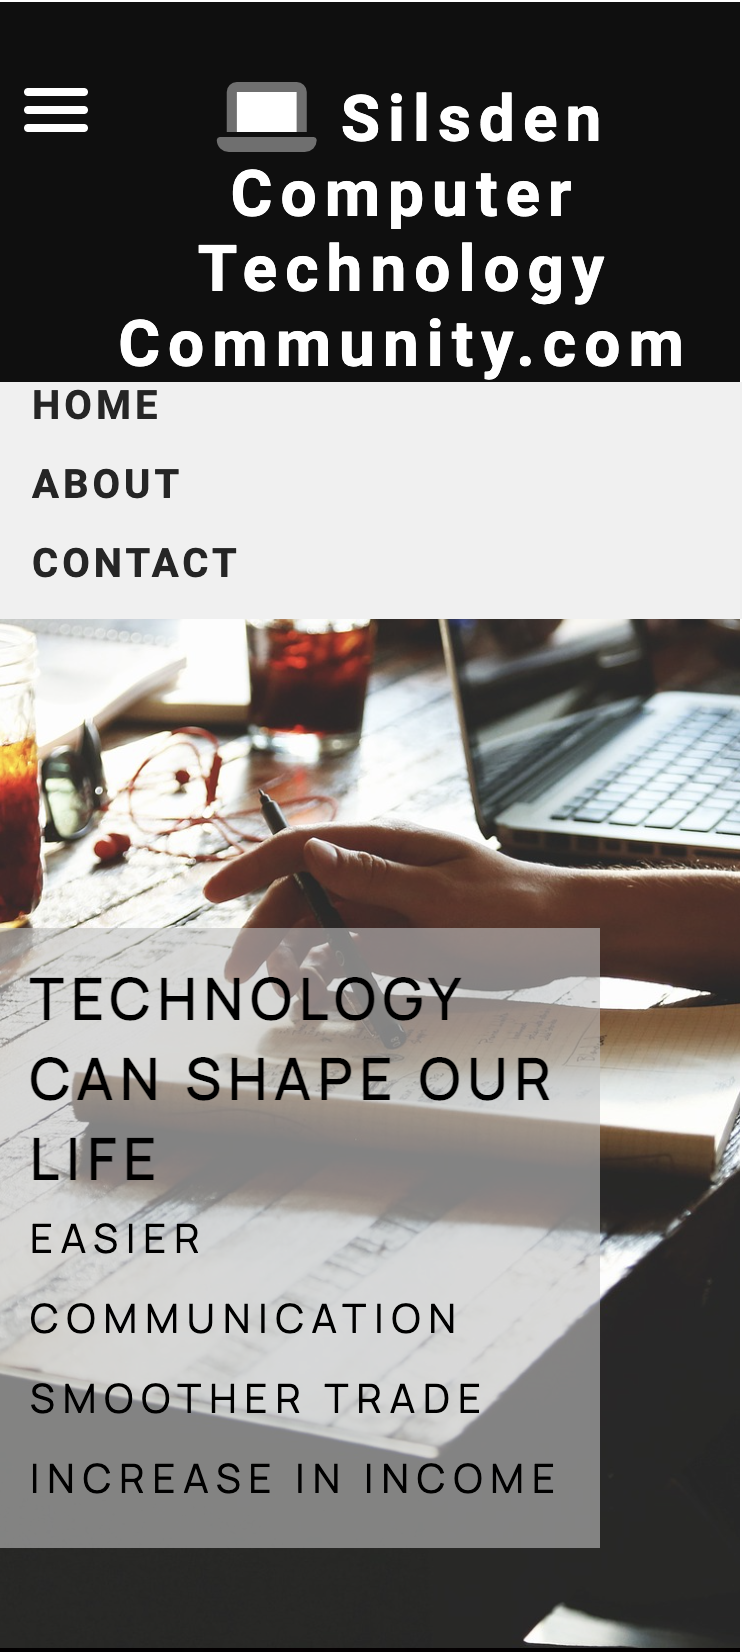
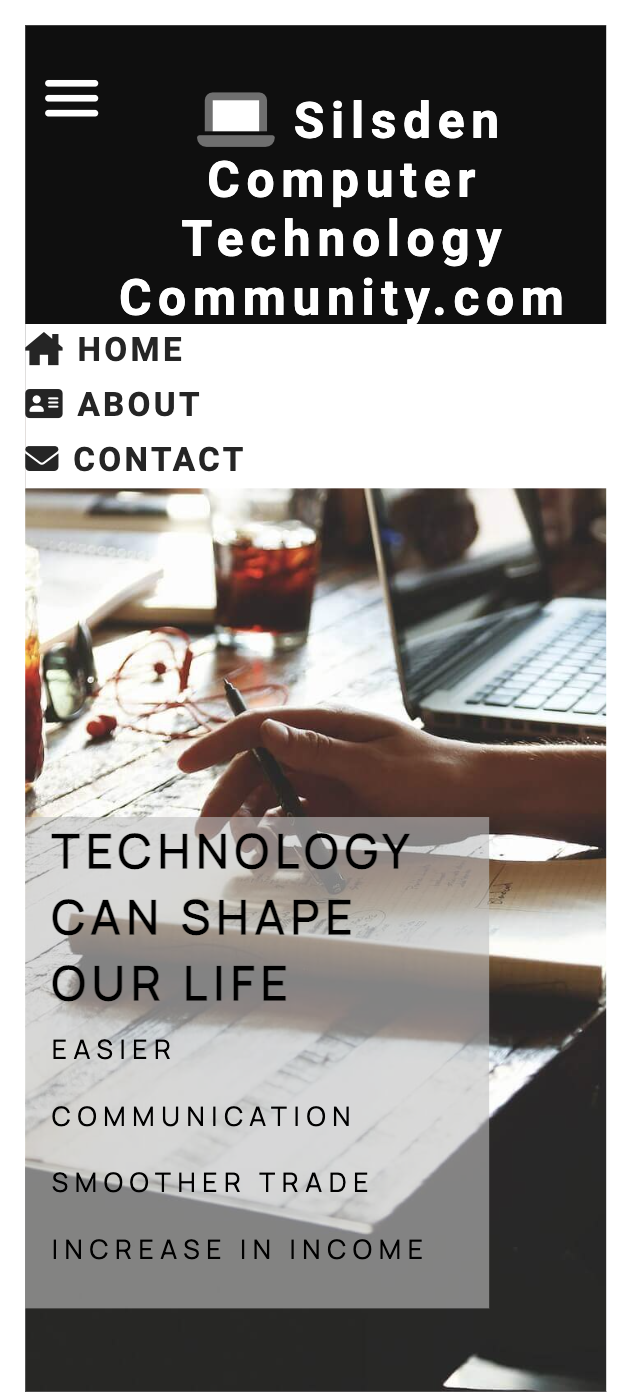
Add style

diff --git a/about.html b/about.html
@@ -16,7 +16,7 @@
     <title>Silsden Computer Technology Community.com About</title>
     <link rel="stylesheet" href="assets/css/style.css" />
   </head>
-  <body class="about-container-grid">
+  <body class="about-container-grid about-page-body">
     <header class="header-container">
       <div id="header" class="header">
         <a href="index.html" aria-label="Visit our website (open in a same tab)"
@@ -40,7 +40,7 @@
                 class="active"
                 aria-label="Visit our home page website (open in a same tab)"
               >
-              <i class="fa-sharp fa-solid fa-house-chimney"></i>
+                <i class="fa-sharp fa-solid fa-house-chimney"></i>
 
                 Home</a
               >
@@ -50,7 +50,7 @@
                 href="about.html"
                 class="active"
                 aria-label="Visit our about page website (open in a same tab)"
-                >
+              >
                 <i class="fa-solid fa-address-card"></i>
 
                 About</a
@@ -61,7 +61,7 @@
               <a
                 href="contact.html"
                 aria-label="Visit our sign-up page (open in a same tab)"
-                >
+              >
                 <i class="fa-solid fa-envelope"></i>
                 Contact</a
               >
@@ -95,67 +95,148 @@
         />
       </div>
 
-      <hr>
+      <hr />
 
       <div class="about-container-organizational-chart">
         <h3>ORGANIZATIONAL CHART</h3>
         <ul>
           <li class="about-container-organizational-chart-manager">
-            <img src="assets/images/Screenshot2023-05-07at13.09.11.png" alt="Haszan Dubani picture"/>
-            <p class="about-container-organizational-chart-manager-name">Haszan Dubani</p>
-            <p class="about-container-organizational-chart-manager-position">Manager</p>
+            <img
+              src="assets/images/Screenshot2023-05-07at13.09.11.png"
+              alt="Haszan Dubani picture"
+            />
+            <p class="about-container-organizational-chart-manager-name">
+              Haszan Dubani
+            </p>
+            <p class="about-container-organizational-chart-manager-position">
+              Manager
+            </p>
           </li>
         </ul>
 
         <ul class="about-container-organizational-chart-colleague">
           <li>
-            <img src="assets/images/Screenshot2023-05-07at13.09.46.png" alt="Sandra Brook picture"/>
-            <p class="about-container-organizational-chart-colleague-name">Sandra Brook</p>
-            <p class="about-container-organizational-chart-colleague-position">Senior Software Developer</p>
+            <img
+              src="assets/images/Screenshot2023-05-07at13.09.46.png"
+              alt="Sandra Brook picture"
+            />
+            <p class="about-container-organizational-chart-colleague-name">
+              Sandra Brook
+            </p>
+            <p class="about-container-organizational-chart-colleague-position">
+              Senior Software Developer
+            </p>
           </li>
           <li>
-            <img src="assets/images/Screenshot2023-05-07at13.10.58.png" alt="Marisa Holden picture"/>
-            <p class="about-container-organizational-chart-colleague-name">Marisa Holden</p>
-            <p class="about-container-organizational-chart-colleague-position">Senior Software Developer</p>
+            <img
+              src="assets/images/Screenshot2023-05-07at13.10.58.png"
+              alt="Marisa Holden picture"
+            />
+            <p class="about-container-organizational-chart-colleague-name">
+              Marisa Holden
+            </p>
+            <p class="about-container-organizational-chart-colleague-position">
+              Senior Software Developer
+            </p>
           </li>
           <li>
-            <img src="assets/images/Screenshot2023-05-07at13.11.50.png" alt="Peter Copp picture"/>
-            <p class="about-container-organizational-chart-colleague-name">Peter Copp</p>
-            <p class="about-container-organizational-chart-colleague-position">Senior Software Developer</p>
+            <img
+              src="assets/images/Screenshot2023-05-07at13.11.50.png"
+              alt="Peter Copp picture"
+            />
+            <p class="about-container-organizational-chart-colleague-name">
+              Peter Copp
+            </p>
+            <p class="about-container-organizational-chart-colleague-position">
+              Senior Software Developer
+            </p>
           </li>
           <li>
-            <img src="assets/images/Screenshot2023-05-07at13.08.51.png" alt="Amy Taylor picture"/>
-            <p class="about-container-organizational-chart-colleague-name">Amy Taylor</p>
-            <p class="about-container-organizational-chart-colleague-position">Junior Software Developer</p>
+            <img
+              src="assets/images/Screenshot2023-05-07at13.08.51.png"
+              alt="Amy Taylor picture"
+            />
+            <p class="about-container-organizational-chart-colleague-name">
+              Amy Taylor
+            </p>
+            <p class="about-container-organizational-chart-colleague-position">
+              Junior Software Developer
+            </p>
           </li>
         </ul>
       </div>
-      <hr>
+      <hr />
       <div class="about-activity-container">
-        <h4>OUR COMMUNITY, 2003 ACTIVITIES </h4>
+        <h4>OUR COMMUNITY, 2003 ACTIVITIES</h4>
         <div class="about-activity-container-image">
-            <img src="assets/images/workplace-4532322_1920.jpg" alt="i mac and ipad on the table"/>
-            <img src="assets/images/typing-2558213_1920.jpg" alt="A man using laptop"/>
-            <img src="assets/images/squash-793060_1920.jpg" alt="People hand using a laptop with squash"/>
-           <img src="assets/images/macbook-2617419_1920.jpg" alt="A man is reading a book with laptop turn off"/>
-          
-          <img src="assets/images/children-ga9a95ff29_1920.jpg" alt=" Two children with laptop"/>
-          <img src="assets/images/startup-gb355f2403_1920.jpg" alt="People meet around a table."/>
-          <img src="assets/images/adult-3086304_1920.jpg" alt="Man and lady using laptop"/>
-          <img src="assets/images/laptop-2591245_1920.jpg" alt="Lady using laptop in office"/>
-            
-          <img src="assets/images/laptop-3087585_1920.jpg" alt="Lady using laptop and biting pencil"/>
-            <img src="assets/images/laptops-593296_1920.jpg" alt="Three people using laptop on the table"/>
-            <img src="assets/images/people-2569523_1920.jpg" alt="Three people using laptop on the table"/>
-            <img src="assets/images/notebooks-569121_1920.jpg" alt="People using laptop with keyboard on the table"/>
-          
-            <img src="assets/images/people-2568603_1920.jpg" alt="Man and lady chatting and using laptop"/>
-          <img src="assets/images/dai-ke-GkraTrCYA_0-unsplash 2.jpg" alt="Lady using laptop and carry tea cup"/>
-          <img src="assets/images/students-1807505_1920.jpg" alt="Three student using laptop on green grass"/>
-          <img src="assets/images/training-3207841_1920.jpg" alt="Training online through laptop"/>
-          </div>
-          
-      
+          <img
+            src="assets/images/workplace-4532322_1920.jpg"
+            alt="i mac and ipad on the table"
+          />
+          <img
+            src="assets/images/typing-2558213_1920.jpg"
+            alt="A man using laptop"
+          />
+          <img
+            src="assets/images/squash-793060_1920.jpg"
+            alt="People hand using a laptop with squash"
+          />
+          <img
+            src="assets/images/macbook-2617419_1920.jpg"
+            alt="A man is reading a book with laptop turn off"
+          />
+
+          <img
+            src="assets/images/children-ga9a95ff29_1920.jpg"
+            alt=" Two children with laptop"
+          />
+          <img
+            src="assets/images/startup-gb355f2403_1920.jpg"
+            alt="People meet around a table."
+          />
+          <img
+            src="assets/images/adult-3086304_1920.jpg"
+            alt="Man and lady using laptop"
+          />
+          <img
+            src="assets/images/laptop-2591245_1920.jpg"
+            alt="Lady using laptop in office"
+          />
+
+          <img
+            src="assets/images/laptop-3087585_1920.jpg"
+            alt="Lady using laptop and biting pencil"
+          />
+          <img
+            src="assets/images/laptops-593296_1920.jpg"
+            alt="Three people using laptop on the table"
+          />
+          <img
+            src="assets/images/people-2569523_1920.jpg"
+            alt="Three people using laptop on the table"
+          />
+          <img
+            src="assets/images/notebooks-569121_1920.jpg"
+            alt="People using laptop with keyboard on the table"
+          />
+
+          <img
+            src="assets/images/people-2568603_1920.jpg"
+            alt="Man and lady chatting and using laptop"
+          />
+          <img
+            src="assets/images/dai-ke-GkraTrCYA_0-unsplash 2.jpg"
+            alt="Lady using laptop and carry tea cup"
+          />
+          <img
+            src="assets/images/students-1807505_1920.jpg"
+            alt="Three student using laptop on green grass"
+          />
+          <img
+            src="assets/images/training-3207841_1920.jpg"
+            alt="Training online through laptop"
+          />
+        </div>
       </div>
     </main>
 

diff --git a/assets/css/style.css b/assets/css/style.css
@@ -405,9 +405,7 @@ h1 {
 /* home page style end here*/
 
 /* about style start */
-body {
-  margin: 10px;
-}
+
 .about-container-organization-story {
   line-height: 50px;
   letter-spacing: 0.1em;
@@ -550,7 +548,6 @@ body {
 /* contact form style start here*/
 .contact-container-grid {
   display: grid;
-  margin: 10px;
 }
 
 .contact-page-main-container {
@@ -680,9 +677,7 @@ textarea:focus {
 }
 /* sign-up style end here*/
 /* response page style start here */
-.response-page-container-grid {
-  margin: 10px;
-}
+
 .response-page {
   display: grid;
   height: auto;
@@ -826,6 +821,13 @@ textarea:focus {
     display: flex;
     flex-direction: column;
   }
+  .contact-container-grid {
+    margin: 10px;
+  }
+  
+  .about-page-body {
+    margin: 10px;
+  }
   .about-container-organizational-chart > h3 {
     font-size: 2.8rem;
   
@@ -864,6 +866,9 @@ textarea:focus {
     gap: 10px;
     align-items: center;
     justify-content: center;
+  }
+  .response-page-container-grid {
+    margin: 10px;
   }
 }
 /* media query end here*/
